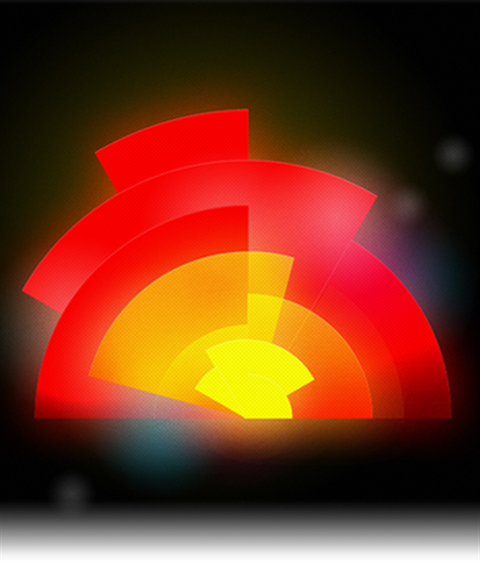
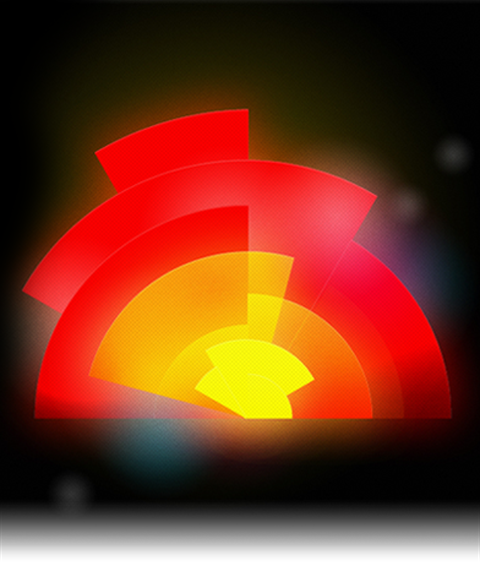
Improved the static spark graphic on the mobile home page

Changed region(s): [[0.0, 0.3025, 0.0938, 0.605]]

diff --git a/media/css/mobile.css b/media/css/mobile.css
@@ -245,6 +245,12 @@ a.button:active {
     color:#000;
 }
 
+a:active button, a:focus button {
+    text-decoration:none;
+    outline:0;
+    border:0;
+}
+
 p.license {
     color:#808080;
     font-size:0.878em;
@@ -680,13 +686,14 @@ li.badge:active, li.badge.current {
     padding-top:10px;
 }
 
-#home {
-    background:url('../img/mobile/spark.png') no-repeat center 0;
+body#home {
+    background:url('../img/mobile/spark.jpg') no-repeat center 0;
     background-size:320px auto;
-}
+    min-height:400px;
+} 
 
-#static-spark {
-    height:200px;
+#home #header {
+    margin-bottom:200px;   
 }
 
 #home .left-button, #user-share .left-button {

diff --git a/apps/mobile/templates/mobile/home.html b/apps/mobile/templates/mobile/home.html
@@ -7,9 +7,6 @@
 {% block flame %}{% endblock %}
 
 {% block pagecontent %}
-<div id="static-spark">
-    
-</div>
 <p class="section sans">
     {{ _('Wanna help spread Firefox 4 for Android around the world? Take challenges, unlock badges and earn yourself some bragging rights.') }}
 </p>
